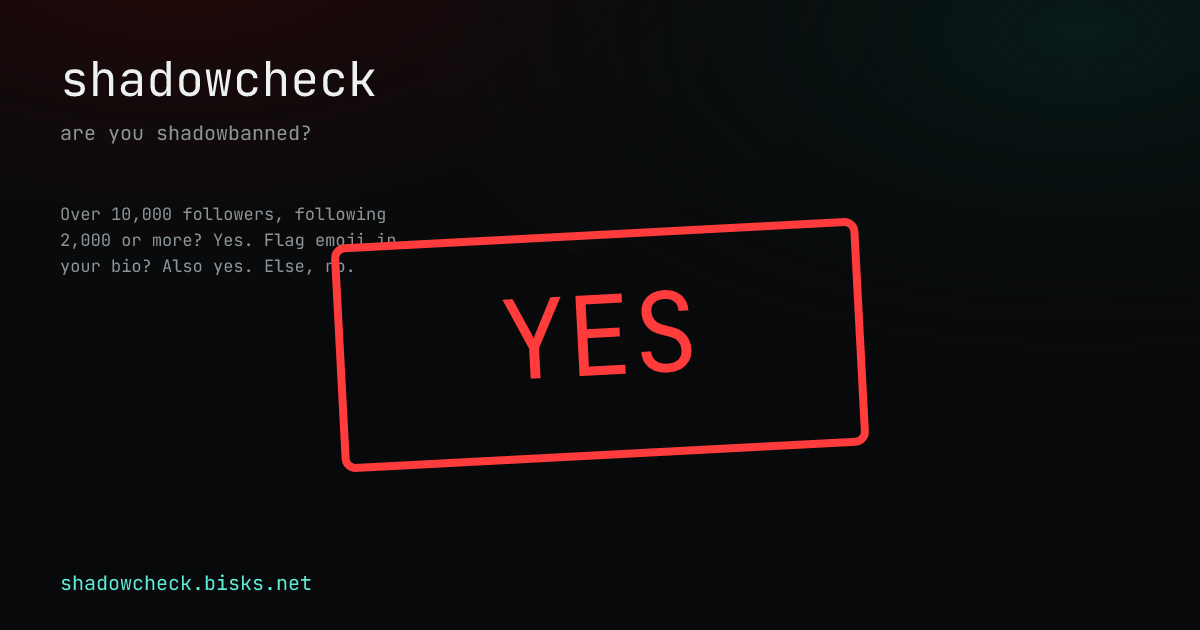
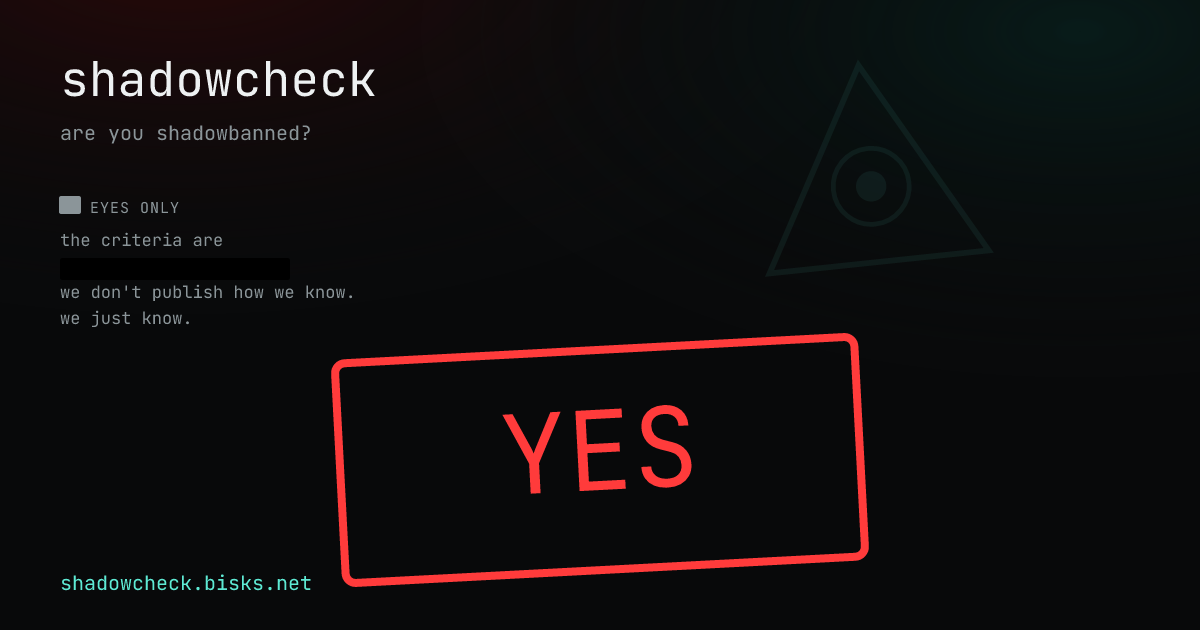
buildthis: shadowcheck (@7778777.online)

Changed region(s): [[0.0308, 0.3016, 0.74, 0.9349]]

diff --git a/sites/shadowcheck/public/index.html b/sites/shadowcheck/public/index.html
@@ -53,9 +53,18 @@
   .credit a { color: var(--accent2); text-decoration: none; }
 
   .dossier {
-    position: relative; margin: 0 0 2.1rem; padding: 1.1rem 1.1rem 1rem;
+    position: relative; z-index: 0; margin: 0 0 2.1rem; padding: 1.1rem 1.1rem 1rem;
     background: repeating-linear-gradient(0deg, rgba(255,255,255,0.015) 0 1px, transparent 1px 3px), var(--card);
     border: 1px solid var(--border); border-radius: 10px; overflow: hidden;
+  }
+  .eye-watermark {
+    position: absolute; top: 50%; left: 50%; width: 340px; height: 340px;
+    transform: translate(-50%, -50%) rotate(-6deg); opacity: 0.05;
+    color: var(--accent2); pointer-events: none; z-index: -1;
+  }
+  .seal {
+    position: absolute; top: 0.4rem; right: 0.5rem; width: 30px; height: 30px;
+    transform: rotate(8deg); color: var(--dim); opacity: 0.55; pointer-events: none;
   }
   .stamp {
     position: absolute; top: 0.7rem; right: -1.6rem; transform: rotate(18deg);
@@ -69,10 +78,10 @@
   .redacted-line { color: var(--dim); font-size: 0.88rem; margin: 0 0 0.9rem; line-height: 1.6; }
   .black-bar { background: #000; color: transparent; border-radius: 2px; padding: 0 0.15rem; user-select: none; }
   .memo {
-    border: 1px dashed var(--border); border-radius: 6px; padding: 0.65rem 0.8rem;
+    position: relative; border: 1px dashed var(--border); border-radius: 6px; padding: 0.65rem 0.8rem;
     margin: 0 0 0.9rem; font-size: 0.78rem; line-height: 1.65; color: var(--dim);
   }
-  .memo-head { color: var(--accent); font-weight: 700; letter-spacing: 0.06em; margin-bottom: 0.35rem; font-size: 0.72rem; }
+  .memo-head { color: var(--accent); font-weight: 700; letter-spacing: 0.06em; margin-bottom: 0.35rem; font-size: 0.72rem; padding-right: 2.2rem; }
   .quote {
     margin: 0 0 0.4rem; padding-left: 0.85rem; border-left: 3px solid var(--accent2);
     color: var(--fg); font-size: 0.85rem; line-height: 1.55; font-style: italic;
@@ -153,6 +162,16 @@
   <div class="wrap">
     <h1><span class="sh">shadow</span><span class="adow">check</span><span class="check" onclick='var e=document.getElementById("handle");if(e){e.value="@cee.wtf";e.dispatchEvent(new Event("input",{bubbles:true}));e.dispatchEvent(new Event("change",{bubbles:true}));e.focus();}' style="cursor:pointer;color:inherit;">.</span></h1>
     <div class="dossier">
+      <svg class="eye-watermark" viewBox="0 0 200 200" aria-hidden="true">
+        <polygon points="100,18 184,172 16,172" fill="none" stroke="currentColor" stroke-width="4" />
+        <circle cx="100" cy="118" r="34" fill="none" stroke="currentColor" stroke-width="3" />
+        <circle cx="100" cy="118" r="13" fill="currentColor" />
+        <g stroke="currentColor" stroke-width="3">
+          <line x1="100" y1="30" x2="100" y2="52" />
+          <line x1="70" y1="40" x2="82" y2="58" />
+          <line x1="130" y1="40" x2="118" y2="58" />
+        </g>
+      </svg>
       <div class="stamp">classified</div>
       <div class="ticker" aria-hidden="true">
         <span>👁&nbsp; 🛰&nbsp; 🕵&nbsp; 🏛&nbsp; 📡&nbsp; 🔒&nbsp; 📷&nbsp; 🖥&nbsp; 👁&nbsp; 🛰&nbsp; 🕵&nbsp; 🏛&nbsp; 📡&nbsp; 🔒&nbsp; 📷&nbsp; 🖥&nbsp; 👁&nbsp; 🛰&nbsp; 🕵&nbsp; 🏛</span>
@@ -162,6 +181,12 @@
         we don't publish how we know. we just know.
       </p>
       <div class="memo">
+        <svg class="seal" viewBox="0 0 100 100" aria-hidden="true">
+          <circle cx="50" cy="50" r="44" fill="none" stroke="currentColor" stroke-width="3" />
+          <circle cx="50" cy="50" r="32" fill="none" stroke="currentColor" stroke-width="1.5" stroke-dasharray="3 4" />
+          <polygon points="50,26 61,46 84,46 66,60 73,82 50,68 27,82 34,60 16,46 39,46"
+            fill="currentColor" opacity="0.85" />
+        </svg>
         <div class="memo-head">interagency memo — eyes only</div>
         RE: <span class="black-bar">██████ threshold protocol</span><br />
         AUTHORIZED BY: <span class="black-bar">████ ████████████</span><br />
